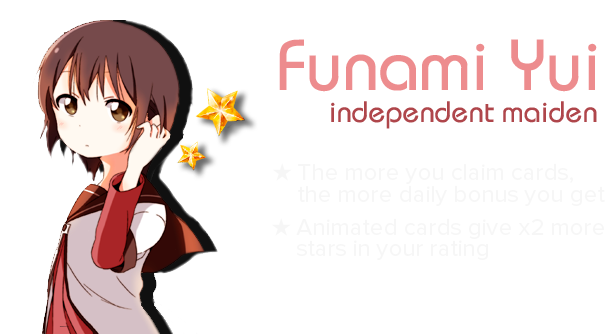
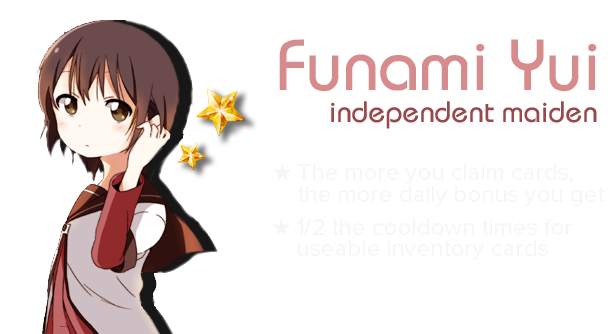
Yui ability change, cherry blossoms effect change

diff --git a/modules/forge.js b/modules/forge.js
@@ -47,20 +47,20 @@ function processRequest(userID, args, callback) {
 }
 
 function getCardByName(name) {
-    return crafted.filter(c => c.name.includes(name))[0];
+    return crafted.filter(c => c.name.includes(name) || c.cards.filter(cc => cc.includes(name)) != 0)[0];
 }
 
 function getInfo(user, name, callback, image = false) {
-    var card = crafted.filter(c => c.name.includes(name))[0];
+    var card = getCardByName(name);
     if(card) {
         let cardName = utils.toTitleCase(card.name.replace(/_/g, " "));
         let res = "Info about **" + cardName + "** craft card:";
-        res += "\nForge cost: **" + card.cost + "**🍅";
+        res += "\nForge cost: **" +  getCardEffect(user, 'forge', card.cost) + "**🍅";
         res += "\nRequired hero level: **" + card.level + "**";
         res += "\nRequired cards: ";
         for(i in card.cards) {
             res += "**" + utils.toTitleCase(card.cards[i].replace(/_/g, " ")) + "**";
-            res += (i == card.cards.length)? " " : ", ";
+            res += ((i == card.cards.length - 1)? " " : ", ");
         }
         res += "\nEffect: *" + card.effect + "*";
         if(card.cooldown) res += "\nCooldown: **" + card.cooldown + "**";
@@ -121,7 +121,7 @@ function craftCard(user, args, callback) {
             let err = "";
             let curName = utils.toTitleCase(crafted[i].name.replace(/_/g, " "));
             //let cost = heroes.getHeroEffect(user, 'forge', crafted[i].cost);
-            let cost = crafted[i].cost;
+            let cost =  getCardEffect(user, 'forge', crafted[i].cost);
             if(user.exp < cost) {
                 err += "**" + user.username + "**, you don't have enough 🍅 Tomatoes "
                 + "to craft this card. You need at least **" + cost + "**🍅\n";
@@ -177,7 +177,7 @@ function craftCard(user, args, callback) {
 
 function craftOrdinary(user, cards, callback) {
     let level = cards[0].level;
-    let crCost = heroes.getHeroEffect(user, 'forge', level * 120);
+    let crCost =  getCardEffect(user, 'forge', heroes.getHeroEffect(user, 'forge', level * 120));
     if(user.exp < crCost) {
         callback("**" + user.username + "**, you don't have enough 🍅 Tomatoes to perform forge. "
             + "You need at least **" + crCost + "** but you have **" + Math.floor(user.exp) + "**");
@@ -218,7 +218,6 @@ function craftOrdinary(user, cards, callback) {
     }
 
     let req = {level: level};
-    let bonus = getCardEffect(user, 'forge', 0);
     if(collection) req.collection = collection;
     heroes.addXP(user, .2);
     requestCard(user, req, (m, o, c) => {
@@ -228,10 +227,10 @@ function craftOrdinary(user, cards, callback) {
             { discord_id: user.discord_id},
             { 
                 $set: {cards: user.cards },
-                $inc: {exp: bonus[0] - crCost}
+                $inc: {exp: -crCost}
             }
         ).then(u => { 
-            if(bonus[0] > 0) m += "\nAdded " + bonus[0] + "🍅 Tomatoes from card effect";
+            //if(bonus[0] > 0) m += "\nAdded " + bonus[0] + "🍅 Tomatoes from card effect";
             callback(m, o);
         }).catch(e => {logger.error(e)});
     });
@@ -257,7 +256,7 @@ function getCardEffect(user, action, ...params) {
             if(inv.has(user, 'the_ruler_jeanne')) params[1] = 15;
             break;
         case 'forge':
-            if(inv.has(user, 'cherry_blossoms')) params[0] = 200;
+            if(inv.has(user, 'cherry_blossoms')) params *= .5;
             break;
         case 'send':
             if(params[0].inventory && inv.has(params[0], 'skies_of_friendship')) {

diff --git a/modules/dbmanager.js b/modules/dbmanager.js
@@ -631,13 +631,8 @@ function difference(discUser, targetID, args, callback) {
             if(!user2) return;
 
             let dif = user2.cards.filter(x => user.cards.filter(y => x.name == y.name) == 0);
-            let cards = [];
-            dif.forEach(element => {
-                cards.push(element);
-            }, this);
-            
-            if(cards.length > 0) 
-                callback(listing.addNew(discUser, args, cards, user2.username));
+            if(dif.length > 0) 
+                callback(listing.addNew(discUser, args, dif, user2.username));
             else
                 callback("**" + user2.username + "** has no any unique cards for you\n");
         });
@@ -681,14 +676,14 @@ function needsCards(discUser, args, callback) {
     let ccollection = term.startsWith('-h')? 
         mongodb.collection('promocards') : mongodb.collection('cards');
     
-    let isCol = term[0] == '-';
-    let match = {'name':new RegExp(term, 'i')};
-    if(isCol) match = {'collection':new RegExp(term.replace('-', ''), 'i')};
+    //let isCol = term[0] == '-';
+    //let match = {'name':new RegExp(term, 'i')};
+    //if(isCol) match = {'collection':new RegExp(term.replace('-', ''), 'i')};
 
     collection.findOne({"discord_id":discUser.id}).then(user => {
         if(!user) return;
 
-        ccollection.find(match).toArray((err, res) => {
+        ccollection.find().toArray((err, res) => {
             let dif = res.filter(x => user.cards.filter(y => 
                 (x.name == y.name && x.collection == y.collection)) == 0);
             

diff --git a/modules/heroes.js b/modules/heroes.js
@@ -143,15 +143,12 @@ function getHeroEffect(user, action, value, ...params) {
                     if(p < 0) p = 0;
                     return value + p;
                 } 
-                break;
             case 'toshino kyoko':
                 if(action == 'addXP') return value * 1.8;
                 if(action == 'forge') return 0;
-                break;
             case 'funami yui':
-                if(action == 'daily') return value * 90;
-                if(action == 'rating') return value + countAnimated(user.cards);
-                break;
+                if(action == 'daily') return value * 100;
+                if(action == 'cooldown') return Math.floor(value * .5);
             case 'yoshikawa chinatsu':
                 if(action == 'questReward') return Math.floor(value * 1.8);
                 if(action == 'questComplete') {
@@ -159,11 +156,12 @@ function getHeroEffect(user, action, value, ...params) {
                         value("Dark spell from Chinatsu granted you another quest! Use `->quest` to see it");
                     });
                 }
-                break;
         }
     }
     return value;
 }
+
+
 
 function getRating(user, callback) {
     ucollection.find({ }).sort({'hero.exp': -1}).toArray((err, users) => {

diff --git a/modules/inventory.js b/modules/inventory.js
@@ -7,6 +7,7 @@ const fs = require('fs');
 const logger = require('./log.js');
 const utils = require('./localutils.js');
 const forge = require('./forge.js');
+const heroes = require('./heroes.js');
 
 function connect(db) {
     mongodb = db;
@@ -86,7 +87,7 @@ function useItem (user, args, callback) {
     let isComplete = false;
     if(item) {
         if(item.lastused) {
-            let cooldown = item.cooldown - utils.getHoursDifference(item.lastused);
+            let cooldown = heroes.getHeroEffect(user, 'cooldown', item.cooldown) - utils.getHoursDifference(item.lastused);
             let itemname = utils.toTitleCase(item.name.replace(/_/g, " "));
             if(cooldown && cooldown > 0){
                 callback("**" + user.username + "**, the item **" + itemname
